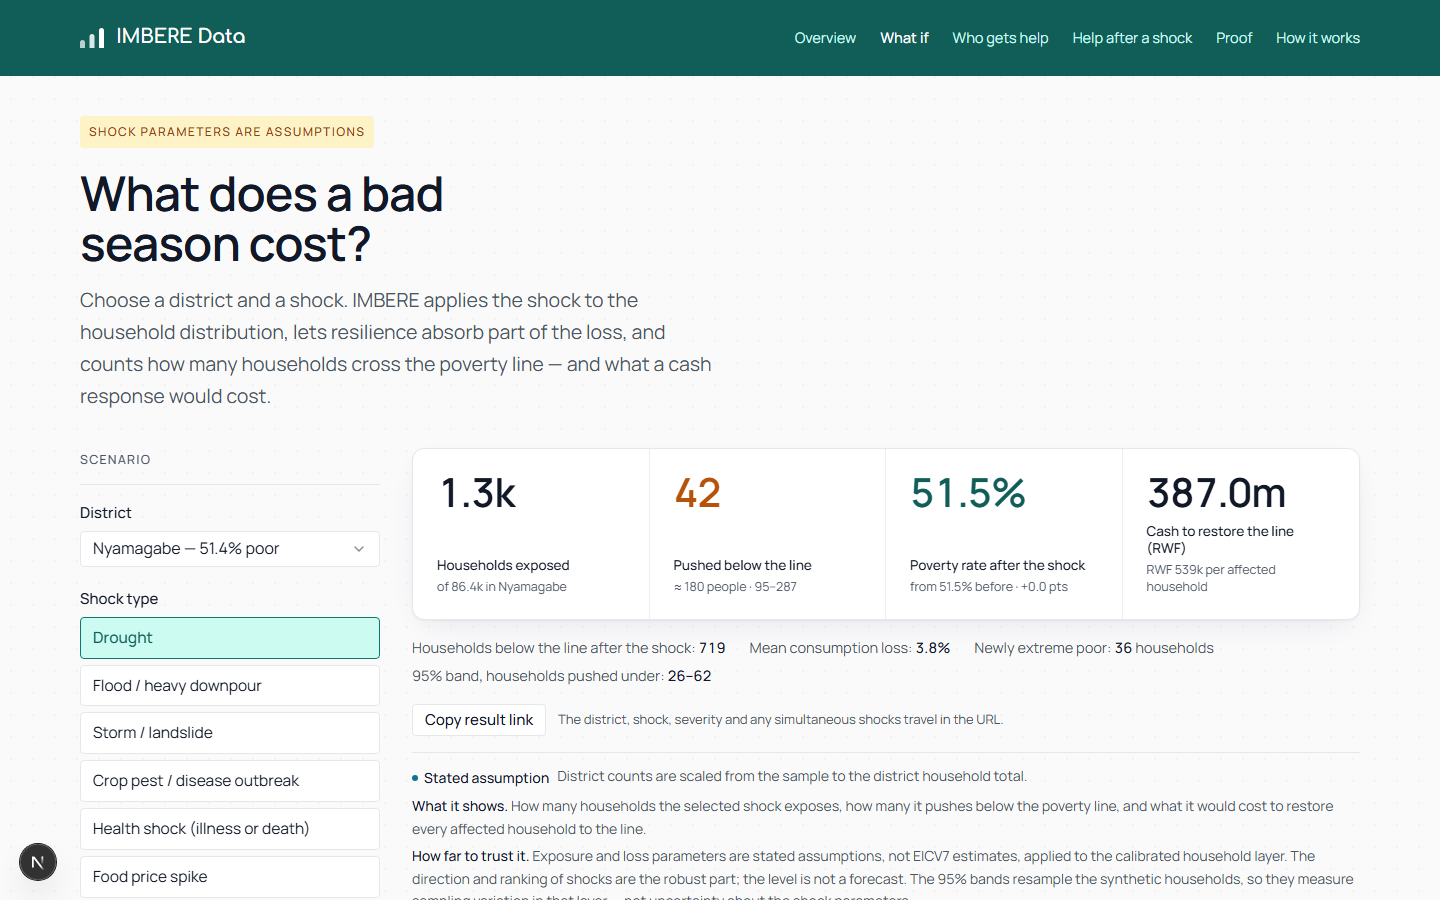
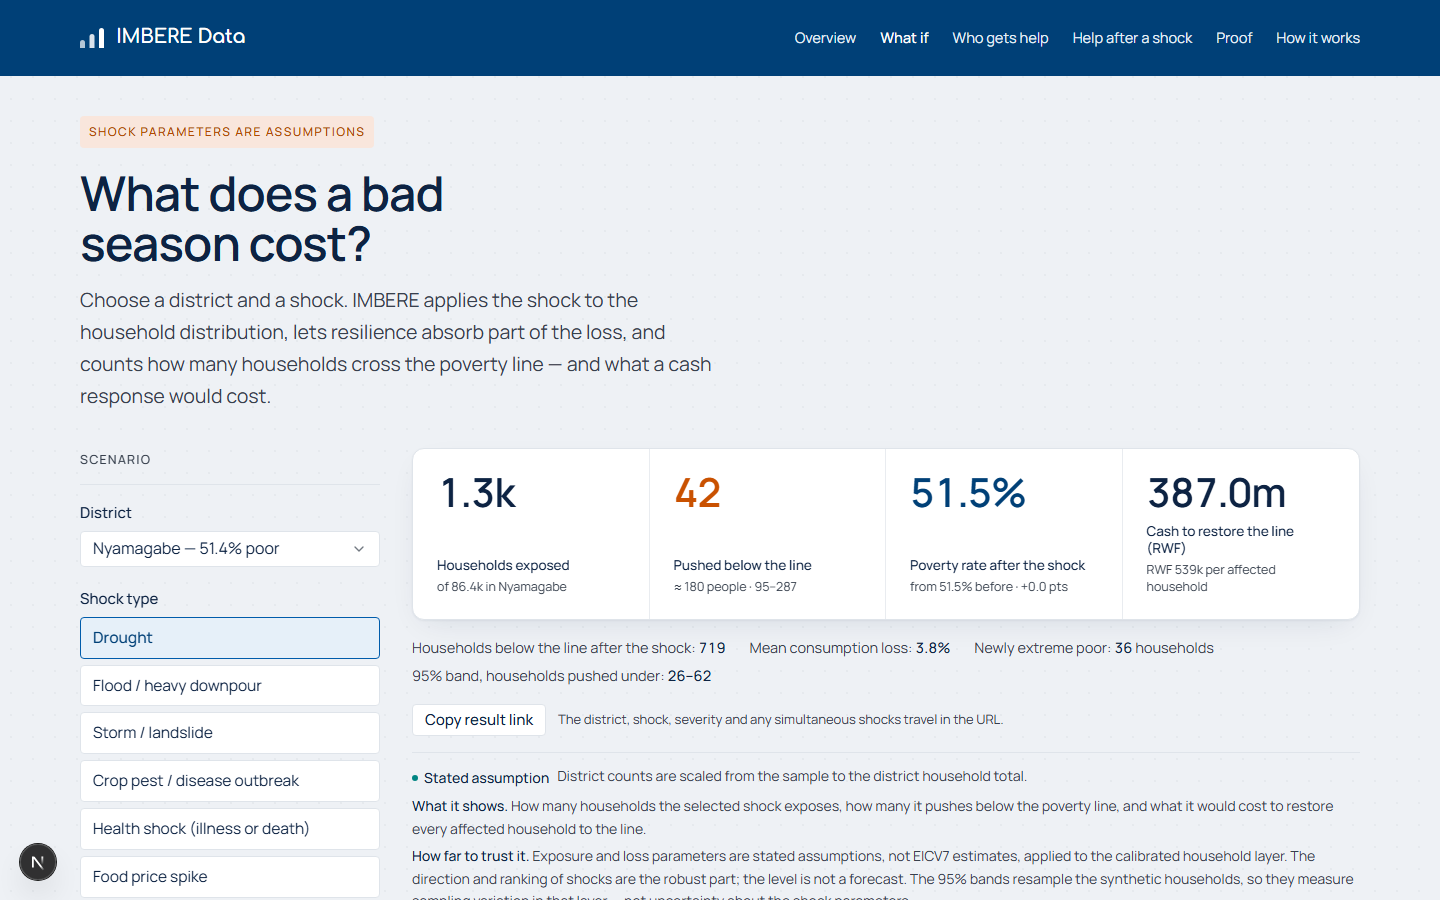
Revert "Retheme the interface to a calm teal palette"
This reverts commit ad92d7036bcfbd725a5bcb0af191d31d835a7bc1.

diff --git a/web/app/globals.css b/web/app/globals.css
@@ -1,35 +1,28 @@
 @import "tailwindcss";
 @import "tw-animate-css";
 
-/* Palette: a calm teal primary on near-white surfaces, with one warm accent kept for
-   "modelled" provenance and second series. Green/red are reserved for outcomes, never for
-   decoration. The token names are unchanged from the previous brand set so every component
-   keeps working; only the values moved. */
+/* Palette sourced from NISR (statistics.gov.rw) brand CSS variables:
+   brand blue #005cab, deep #004077, mid #196cb3, pale #a5c5e1, ink #0d2343,
+   body #37404d, light background #e6e9eb, warning/orange #c95100, success teal #008482. */
 @theme {
-  --color-paper: #fafafb;
+  --color-paper: #eef1f5;
   --color-surface: #ffffff;
-  --color-ink: #111827;
-  --color-ink-soft: #4b5563;
-  --color-line: #e5e7eb;
-  --color-primary: #0f766e;
-  --color-primary-deep: #115e59;
-  --color-primary-soft: #ccfbf1;
-  --color-accent: #b45309;
-  /* accent-deep is the AA-safe partner of accent on the sand provenance tints below: #b45309 on
-     #fef3c7 measures 4.0:1 at 12px badge size, #92400e measures 5.5:1. Keep them paired. */
-  --color-accent-deep: #92400e;
-  --color-accent-soft: #fef3c7;
-  /* Third series: cool cyan, far enough from the primary teal to read as a separate rule on a
-     chart while staying in the same family. Used for "assumed" provenance and community rules. */
-  --color-teal: #0e7490;
-
-  /* Outcome colours. Nothing else may use them. */
-  --color-good: #16a34a;
-  --color-bad: #dc2626;
+  --color-ink: #0d2343;
+  --color-ink-soft: #37404d;
+  --color-line: #dfe4ea;
+  --color-primary: #005cab;
+  --color-primary-deep: #004077;
+  --color-primary-soft: #e6f0f9;
+  --color-accent: #c95100;
+  /* accent-deep is the AA-safe partner of accent on the peach provenance tints below: #c95100 on
+     #f9e6dc measures 3.7:1 at 12px badge size, #b04800 measures 4.6:1. Keep them paired. */
+  --color-accent-deep: #b04800;
+  --color-accent-soft: #f9e6dc;
+  --color-teal: #008482;
 
   /* Semantic aliases read by the primitives in components/ui. The brand tokens above stay the
      source of truth; these exist so copy-in shadcn components read naturally. shadcn's "accent"
-     means a neutral hover surface, which collides with our warm accent, so hover is "hover"
+     means a neutral hover surface, which collides with our orange accent, so hover is "hover"
      here instead. */
   --color-background: var(--color-paper);
   --color-foreground: var(--color-ink);
@@ -40,11 +33,11 @@
   --color-primary-foreground: #ffffff;
   --color-secondary: var(--color-primary-soft);
   --color-secondary-foreground: var(--color-primary-deep);
-  --color-muted: #f3f4f6;
+  --color-muted: #e6e9eb;
   --color-muted-foreground: var(--color-ink-soft);
   --color-hover: var(--color-primary-soft);
   --color-hover-foreground: var(--color-primary-deep);
-  --color-destructive: var(--color-bad);
+  --color-destructive: #ce3936;
   --color-border: var(--color-line);
   --color-input: var(--color-line);
   --color-ring: var(--color-primary);
@@ -164,7 +157,7 @@
 
 /* Soft paper grain so large flat areas do not look like a generic dashboard. */
 .paper-grain {
-  background-image: radial-gradient(rgba(17, 24, 39, 0.035) 1px, transparent 1px);
+  background-image: radial-gradient(rgba(13, 35, 67, 0.04) 1px, transparent 1px);
   background-size: 22px 22px;
 }
 

diff --git a/web/app/targeting/page.tsx b/web/app/targeting/page.tsx
@@ -43,11 +43,11 @@ import { num, pct, rwf, rwfValue } from "@/lib/format";
 import { useSlowNotice } from "@/lib/useSlowNotice";
 
 const COLORS: Record<string, string> = {
-  universal: "#9ca3af",
-  geographic: "#5eead4",
-  community: "#0e7490",
-  financial_exclusion: "#b45309",
-  pmt: "#0f766e",
+  universal: "#acaeb0",
+  geographic: "#5b93c4",
+  community: "#008482",
+  financial_exclusion: "#c95100",
+  pmt: "#005cab",
 };
 
 const DEFAULT_BUDGET = 300_000_000;
@@ -878,28 +878,28 @@ export default function TargetingPage() {
                       barGap={2}
                       barCategoryGap="18%"
                     >
-                      <CartesianGrid stroke="#e5e7eb" strokeDasharray="3 3" vertical={false} />
+                      <CartesianGrid stroke="#dfe4ea" strokeDasharray="3 3" vertical={false} />
                       <XAxis
                         dataKey="caseload_pct"
                         tickFormatter={(v) => `${v}%`}
-                        tick={{ fontSize: 12.5, fill: "#4b5563" }}
+                        tick={{ fontSize: 12.5, fill: "#37404d" }}
                         tickLine={false}
-                        axisLine={{ stroke: "#e5e7eb" }}
+                        axisLine={{ stroke: "#dfe4ea" }}
                         label={{
                           value: "Households enrolled (% of sample)",
                           position: "insideBottom",
                           offset: -16,
                           fontSize: 12.5,
-                          fill: "#4b5563",
+                          fill: "#37404d",
                         }}
                       />
                       <YAxis
                         domain={[0, 100]}
                         ticks={[0, 25, 50, 75, 100]}
                         tickFormatter={(v) => `${v}%`}
-                        tick={{ fontSize: 12.5, fill: "#4b5563" }}
+                        tick={{ fontSize: 12.5, fill: "#37404d" }}
                         tickLine={false}
-                        axisLine={{ stroke: "#e5e7eb" }}
+                        axisLine={{ stroke: "#dfe4ea" }}
                         width={40}
                       />
                       <Tooltip
@@ -907,7 +907,7 @@ export default function TargetingPage() {
                         labelFormatter={(v) => `${v}% of households enrolled`}
                         contentStyle={{
                           background: "#ffffff",
-                          border: "1px solid #e5e7eb",
+                          border: "1px solid #dfe4ea",
                           borderRadius: 6,
                           fontSize: 13,
                         }}

diff --git a/web/components/MultiLine.tsx b/web/components/MultiLine.tsx
@@ -37,20 +37,20 @@ export function MultiLine({
     <div>
       <ResponsiveContainer width="100%" height={320}>
         <AreaChart data={data} margin={{ top: 10, right: 14, left: 8, bottom: 34 }}>
-          <CartesianGrid stroke="#e5e7eb" strokeDasharray="3 3" vertical={false} />
+          <CartesianGrid stroke="#dfe4ea" strokeDasharray="3 3" vertical={false} />
           <XAxis
             dataKey={xKey}
-            tick={{ fontSize: 13, fill: "#4b5563" }}
+            tick={{ fontSize: 13, fill: "#37404d" }}
             tickLine={false}
-            axisLine={{ stroke: "#e5e7eb" }}
-            label={{ value: xLabel, position: "insideBottom", offset: -18, fontSize: 13, fill: "#4b5563" }}
+            axisLine={{ stroke: "#dfe4ea" }}
+            label={{ value: xLabel, position: "insideBottom", offset: -18, fontSize: 13, fill: "#37404d" }}
           />
           <YAxis
             domain={[0, top]}
             tickFormatter={(v) => format(Number(v))}
-            tick={{ fontSize: 13, fill: "#4b5563" }}
+            tick={{ fontSize: 13, fill: "#37404d" }}
             tickLine={false}
-            axisLine={{ stroke: "#e5e7eb" }}
+            axisLine={{ stroke: "#dfe4ea" }}
             width={52}
             label={{
               value: yLabel,
@@ -58,7 +58,7 @@ export function MultiLine({
               position: "insideLeft",
               offset: 8,
               fontSize: 13,
-              fill: "#4b5563",
+              fill: "#37404d",
               style: { textAnchor: "middle" },
             }}
           />
@@ -66,13 +66,13 @@ export function MultiLine({
             formatter={(value, name) => [format(Number(value)), name]}
             contentStyle={{
               background: "#ffffff",
-              border: "1px solid #e5e7eb",
+              border: "1px solid #dfe4ea",
               borderRadius: 6,
               fontSize: 13,
             }}
           />
           <Legend
-            wrapperStyle={{ fontSize: 12.5, color: "#4b5563", paddingTop: 12 }}
+            wrapperStyle={{ fontSize: 12.5, color: "#37404d", paddingTop: 12 }}
             content={({ payload }) => (
               <div className="flex flex-wrap items-center justify-center gap-x-5 gap-y-1 pt-3 text-[12.5px] text-ink-soft">
                 {(payload ?? []).map((entry, i) => (

diff --git a/web/components/BarList.tsx b/web/components/BarList.tsx
@@ -31,8 +31,8 @@ export function BarList({
    */
   valueLabels?: boolean;
 }) {
-  const fill = color === "accent" ? "#b45309" : color === "ink" ? "#111827" : "#0f766e";
-  const hiFill = highlightColor === "teal" ? "#0e7490" : "#b45309";
+  const fill = color === "accent" ? "#c95100" : color === "ink" ? "#0d2343" : "#005cab";
+  const hiFill = highlightColor === "teal" ? "#008482" : "#c95100";
   const data = items.map((item) => ({
     name: item.label,
     value: item.value,
@@ -55,20 +55,20 @@ export function BarList({
         margin={{ top: 4, right, bottom: 4, left: 4 }}
         barCategoryGap="28%"
       >
-        <CartesianGrid horizontal={false} stroke="#e5e7eb" strokeDasharray="3 3" />
+        <CartesianGrid horizontal={false} stroke="#dfe4ea" strokeDasharray="3 3" />
         <XAxis
           type="number"
           domain={[0, max ?? "auto"]}
           tickFormatter={(v) => format(Number(v))}
-          tick={{ fontSize: 12, fill: "#4b5563" }}
+          tick={{ fontSize: 12, fill: "#37404d" }}
           tickLine={false}
-          axisLine={{ stroke: "#e5e7eb" }}
+          axisLine={{ stroke: "#dfe4ea" }}
         />
         <YAxis
           type="category"
           dataKey="name"
           width={170}
-          tick={{ fontSize: 13, fill: "#4b5563" }}
+          tick={{ fontSize: 13, fill: "#37404d" }}
           tickLine={false}
           axisLine={false}
         />
@@ -79,7 +79,7 @@ export function BarList({
           ]}
           contentStyle={{
             background: "#ffffff",
-            border: "1px solid #e5e7eb",
+            border: "1px solid #dfe4ea",
             borderRadius: 6,
             fontSize: 13,
           }}
@@ -103,7 +103,7 @@ export function BarList({
                 <text
                   x={x + width + 8}
                   y={y + height / 2}
-                  fill="#4b5563"
+                  fill="#37404d"
                   fontSize={12}
                   dominantBaseline="middle"
                 >

diff --git a/web/components/RwandaMap.tsx b/web/components/RwandaMap.tsx
@@ -13,14 +13,14 @@ type Feature = {
 type Geo = { type: string; features: Feature[] };
 
 // Legend bins mirror the EICV7 Poverty Profile map so the two can be read side by side.
-// A teal ramp: light enough for the low bins on the paper background, dark enough for the
-// top bin to carry white labels.
+// The map now sits on the paper rather than on a white card, so the two lightest bins are
+// deepened: #e3edf7 on #eef1f5 disappeared into the page.
 const BINS = [
-  { max: 20, color: "#ccfbf1", ink: "#111827", label: "Less than 20" },
-  { max: 30, color: "#99f6e4", ink: "#111827", label: "20 – 30" },
-  { max: 40, color: "#5eead4", ink: "#111827", label: "31 – 40" },
-  { max: 50, color: "#14b8a6", ink: "#111827", label: "41 – 50" },
-  { max: Infinity, color: "#0f766e", ink: "#ffffff", label: "51 and above" },
+  { max: 20, color: "#cfe0f0", ink: "#0d2343", label: "Less than 20" },
+  { max: 30, color: "#a5c5e1", ink: "#0d2343", label: "20 – 30" },
+  { max: 40, color: "#5b93c4", ink: "#0d2343", label: "31 – 40" },
+  { max: 50, color: "#196cb3", ink: "#ffffff", label: "41 – 50" },
+  { max: Infinity, color: "#004077", ink: "#ffffff", label: "51 and above" },
 ];
 
 /** Index of the bin a poverty rate falls in. Shared by the legend filter and the colours. */
@@ -130,7 +130,7 @@ export function RwandaMap({
               <path
                 key={p.name}
                 d={p.d}
-                fill={d ? binColor(d.poverty_2024) : "#e5e7eb"}
+                fill={d ? binColor(d.poverty_2024) : "#dfe4ea"}
                 // A legend band narrows the map to its own districts; the rest stay in place,
                 // faint, so the country's shape and the selected district never jump.
                 opacity={inFocus ? 1 : 0.22}

diff --git a/web/components/Ui.tsx b/web/components/Ui.tsx
@@ -240,16 +240,16 @@ export function PanelState({
   return (
     <Card
       className={`items-start gap-4 p-6 sm:p-8 ${
-        kind === "error" ? "border-bad/40 bg-bad/5" : kind === "empty" ? "border-line" : ""
+        kind === "error" ? "border-accent/60 bg-accent/5" : kind === "empty" ? "border-line" : ""
       }`}
       role={kind === "error" ? "alert" : "status"}
       aria-live={kind === "error" ? "assertive" : "polite"}
     >
       <div className="flex items-start gap-3">
         {kind === "error" ? (
-          <div className="mt-0.5 flex h-9 w-9 flex-shrink-0 items-center justify-center rounded-full bg-bad/10">
+          <div className="mt-0.5 flex h-9 w-9 flex-shrink-0 items-center justify-center rounded-full bg-accent/10">
             <svg
-              className="h-5 w-5 text-bad"
+              className="h-5 w-5 text-accent"
               fill="none"
               viewBox="0 0 24 24"
               stroke="currentColor"
@@ -267,7 +267,7 @@ export function PanelState({
         <div className="flex-1 space-y-1">
           <p
             className={`text-[17px] font-medium leading-relaxed ${
-              kind === "error" ? "text-bad" : kind === "empty" ? "text-ink" : "text-ink-soft"
+              kind === "error" ? "text-accent" : kind === "empty" ? "text-ink" : "text-ink-soft"
             }`}
           >
             {children}

diff --git a/web/app/page.tsx b/web/app/page.tsx
@@ -25,13 +25,11 @@ import { apiGet, type District, type Meta } from "@/lib/api";
 import { compact, num, pct, signed } from "@/lib/format";
 
 // Chart colours cannot use Tailwind classes; kept in step with the tokens in globals.css.
-// Severity runs deep teal to red: healthy households are the brand colour, vulnerable ones
-// take the outcome red, so the four segments read in order without a legend.
 const HEALTH = [
-  { key: "healthy", label: "Healthy", color: "#115e59" },
-  { key: "coping", label: "Coping", color: "#0f766e" },
-  { key: "vulnerable", label: "Vulnerable", color: "#b45309" },
-  { key: "extremely_vulnerable", label: "Extremely vulnerable", color: "#dc2626" },
+  { key: "healthy", label: "Healthy", color: "#004077" },
+  { key: "coping", label: "Coping", color: "#196cb3" },
+  { key: "vulnerable", label: "Vulnerable", color: "#008482" },
+  { key: "extremely_vulnerable", label: "Extremely vulnerable", color: "#c95100" },
 ] as const;
 
 /**
@@ -790,7 +788,7 @@ function MiniBar({
       <span className="h-[5px] overflow-hidden rounded-[1px] bg-line" aria-hidden>
         <MotionBar
           as="span"
-          className={`block h-full ${muted ? "bg-[#9ca3af]" : "bg-[#115e59]"}`}
+          className={`block h-full ${muted ? "bg-[#acaeb0]" : "bg-[#004077]"}`}
           value={Math.max(2, (value / max) * 100)}
         />
       </span>

diff --git a/web/components/Logo.tsx b/web/components/Logo.tsx
@@ -2,12 +2,12 @@
  * Three ascending columns on a shared baseline — access, savings, resilience, and a nod to
  * "imbere" (forward). Vertical, because horizontal bars at this size read as a hamburger menu.
  * Flat feet on one baseline make it a chart rather than three floating pills; brightness
- * steps 70 → 85 → 100 carry the hierarchy that the warm accent cannot (#b45309 on the deep
- * teal is barely 2:1 and would look like a smudge). The 70 floor matches the favicon: at
- * 55 the shortest column washed out at tab size.
+ * steps 70 → 85 → 100 carry the hierarchy that the brand orange cannot (#c95100 on the navy
+ * header is barely 2:1 and would look like a smudge). The 70 floor matches the favicon: at
+ * 55 the shortest column washed out against navy at tab size.
  *
- * The lockup inherits `currentColor`, so the surface decides the tone: the white top bar
- * passes `text-primary-deep`, the paper footer does the same. No chip or plate is needed, and
+ * The lockup inherits `currentColor`, so the surface decides the tone: the navy header passes
+ * `text-white`, the paper footer passes `text-primary-deep`. No chip or plate is needed, and
  * the mark never carries a background of its own.
  */
 export function Logo({ className = "" }: { className?: string }) {

diff --git a/web/components/DonutChart.tsx b/web/components/DonutChart.tsx
@@ -3,7 +3,7 @@
 import { useReducedMotion } from "framer-motion";
 import { Cell, Pie, PieChart, ResponsiveContainer, Tooltip } from "recharts";
 
-const PALETTE = ["#0f766e", "#b45309", "#0e7490", "#115e59", "#5eead4", "#111827", "#ccfbf1"];
+const PALETTE = ["#005cab", "#c95100", "#008482", "#196cb3", "#5b93c4", "#0d2343", "#a5c5e1"];
 
 export function DonutChart({
   items,
@@ -49,7 +49,7 @@ export function DonutChart({
               formatter={(value) => format(Number(value))}
               contentStyle={{
                 background: "#ffffff",
-                border: "1px solid #e5e7eb",
+                border: "1px solid #dfe4ea",
                 borderRadius: 6,
                 fontSize: 13,
               }}

diff --git a/web/components/Nav.tsx b/web/components/Nav.tsx
@@ -15,7 +15,7 @@ const LINKS = [
 ];
 
 /**
- * Deep-teal bar, the same surface as the overview hero, so the two read as one band
+ * Brand-blue bar, the same surface as the overview hero, so the two read as one band
  * rather than a paper strip sitting above a colour panel.
  */
 export function Nav() {

diff --git a/web/app/layout.tsx b/web/app/layout.tsx
@@ -18,7 +18,7 @@ export const metadata: Metadata = {
 };
 
 export const viewport: Viewport = {
-  themeColor: "#0f766e",
+  themeColor: "#005cab",
 };
 
 export default function RootLayout({ children }: { children: React.ReactNode }) {

diff --git a/README.md b/README.md
@@ -97,7 +97,7 @@ The competition scores five criteria at 20 points each. What each one would find
 | **1 · Problem understanding & relevance** | The problem is a measured gap: 96% of adults are financially included, 34% are vulnerable, 27.4% are below the poverty line. Each NST2 Social Transformation target and the Vision 2050 goal is mapped to the module answering it, and the actors are named: LODA, MINALOC, district officers. | Overview *Built for* band; `/methodology` → *Where this sits in national policy* |
 | **2 · Data use & methodology** | Two NISR surveys (EICV7 Poverty Profile, FinScope 2024) plus Census 2022 and geoBoundaries. 39 transcribed indicators, reconciled to the published 27.4% headcount when population-weighted. FGT incidence, depth and severity (P₀ 27.9%, P₁ 6.1%, P₂ 2.2%) with the formula and weights on the page. The household layer is calibrated to nine published marginals; the risk model is evaluated five-fold out-of-fold (ROC-AUC 0.853, PR-AUC 0.672, Brier 0.135, ECE 0.008) with a sensitivity sweep bounding how much of the conclusion depends on that score. One CSV swap replaces the synthetic rows with real microdata. | `/methodology`; `data/processed/calibration.json`; `api/app/datastore.py` |
 | **3 · Tech innovation** | A targeting optimiser rather than a dashboard: five allocation rules priced on the same budget and the same households, geographic-fairness ratios, compound shock scenarios with per-shock attribution, bootstrap intervals on every headline figure, a degradation sweep that stress-tests the targeting conclusion, and real-vs-modelled separation enforced in the API. | `/targeting`, `/simulator`; `api/app/analytics.py`; `api/tests/` |
-| **4 · Usability & design** | Seven pages, one visual language on a calm teal palette. Every panel is labelled *Measured · published* or *Modelled · illustrative*. Tables scroll inside a focusable region rather than breaking the page, nothing overflows at 390px, and the palette is checked against WCAG AA. | The app itself; `screenshots/`; `web/components/ui/` |
+| **4 · Usability & design** | Seven pages, one visual language taken from NISR's own palette. Every panel is labelled *Measured · published* or *Modelled · illustrative*. Tables scroll inside a focusable region rather than breaking the page, nothing overflows at 390px, and the palette is checked against WCAG AA. | The app itself; `screenshots/`; `web/components/ui/` |
 | **5 · Tangible impact** | A number a budget officer can act on: at RWF 300m the proxy-means rule reaches 2.7× more poor households than a universal transfer, and leakage falls from 71.2% to 21.9%. A district can cost a drought reserve in a browser; the next dataset (EICV7 VUP module, catalog 121) is named, which is what would turn selection performance into measured programme impact. | `/targeting` headline cards; *Recommendations* below |
 
 ---
